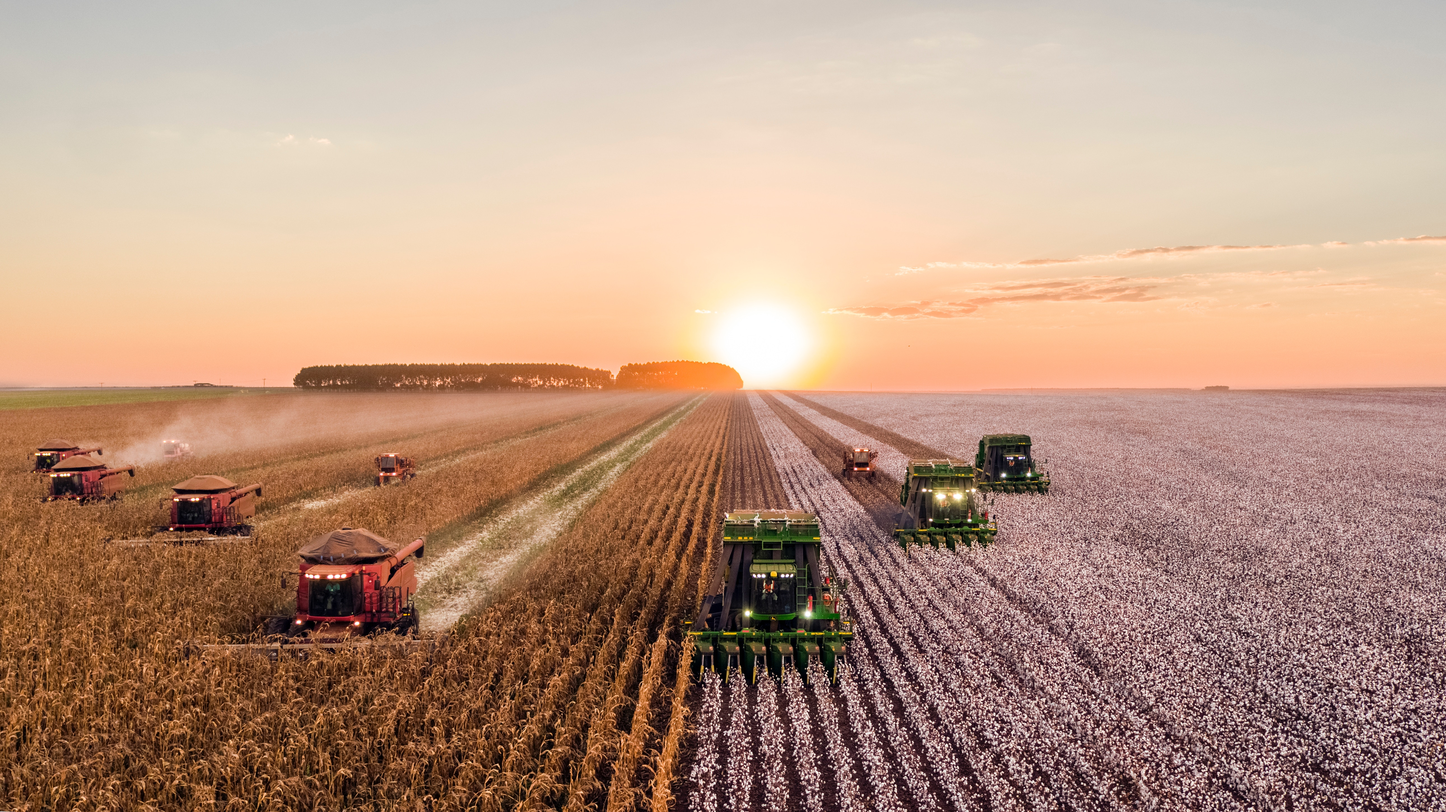
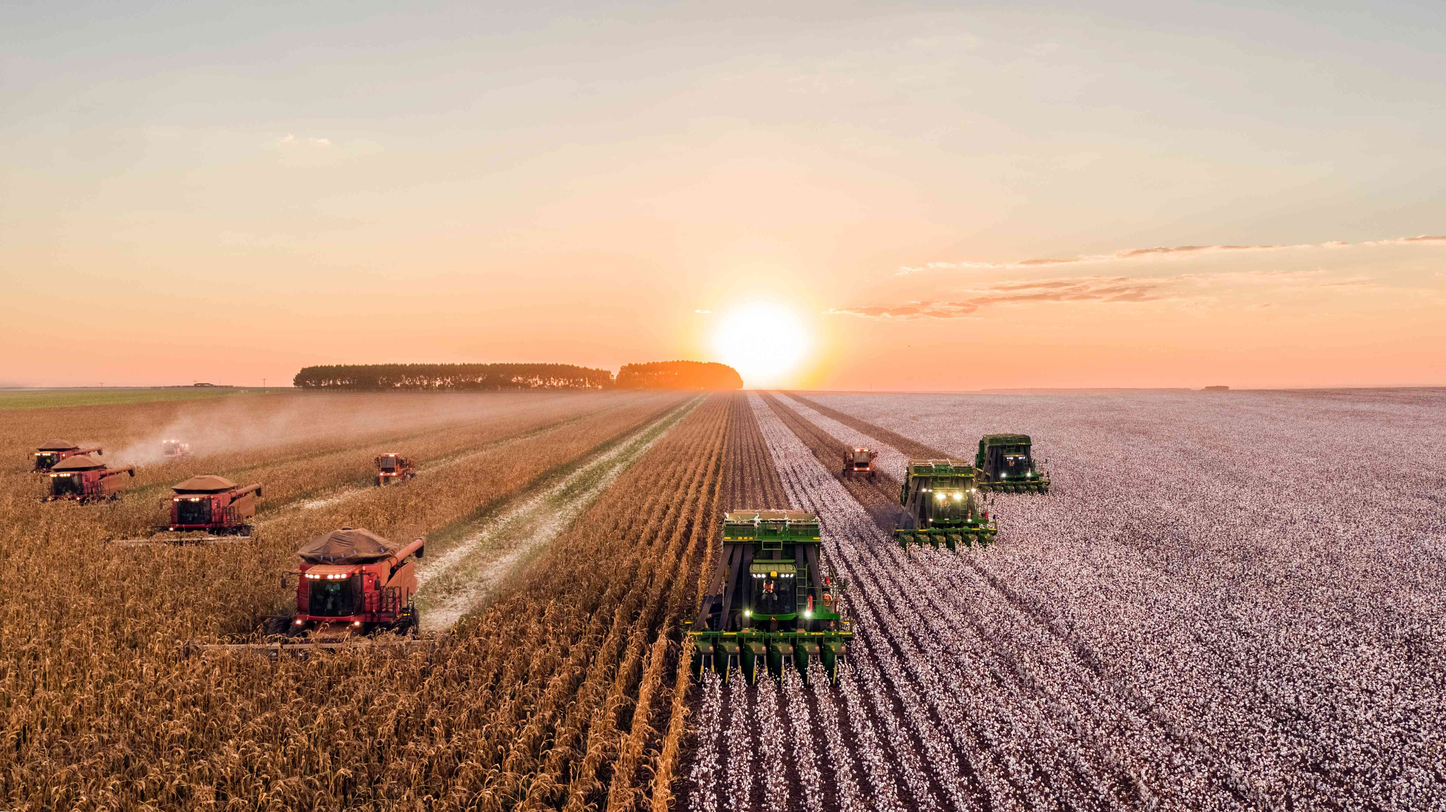
compressed image and added breadcrums and charts in page

diff --git a/frontend/src/app/logs/stats/stats.component.ts b/frontend/src/app/logs/stats/stats.component.ts
@@ -1,5 +1,6 @@
 import { Component, OnInit } from "@angular/core";
 import { Title } from "@angular/platform-browser";
+import { Chart } from "angular-highcharts";
 
 @Component({
   selector: "app-stats",
@@ -7,9 +8,28 @@ import { Title } from "@angular/platform-browser";
   styleUrls: ["./stats.component.scss"]
 })
 export class StatsComponent implements OnInit {
+  chart = new Chart({
+    chart: {
+      type: "line"
+    },
+    title: {
+      text: "OTPs verified"
+    },
+    credits: {
+      enabled: true
+    },
+    series: [
+      {
+        name: "Users in thousands",
+        data: [1, 2, 3]
+      }
+    ]
+  });
   constructor(private title: Title) {}
 
   ngOnInit() {
     this.title.setTitle(`Statistics`);
+    this.chart.addPoint(Math.floor(Math.random() * 10));
+    this.chart.addPoint(Math.floor(Math.random() * 10));
   }
 }

diff --git a/frontend/src/app/shared/components/header/header.component.ts b/frontend/src/app/shared/components/header/header.component.ts
@@ -1,15 +1,21 @@
-import { Component, OnInit } from '@angular/core';
+import { Component, OnInit } from "@angular/core";
+import { ActivatedRoute } from "@angular/router";
 
 @Component({
-  selector: 'app-header',
-  templateUrl: './header.component.html',
-  styleUrls: ['./header.component.scss']
+  selector: "app-header",
+  templateUrl: "./header.component.html",
+  styleUrls: ["./header.component.scss"]
 })
 export class HeaderComponent implements OnInit {
-
-  constructor() { }
+  urlStr;
+  constructor(private activatedRoute: ActivatedRoute) {}
 
   ngOnInit() {
+    this.urlStr = "";
+    const urls = this.activatedRoute.snapshot.pathFromRoot;
+    urls.forEach(url => {
+      if (url.url && url.url.length > 0)
+        this.urlStr = this.urlStr += "/" + url.url[0].path;
+    });
   }
-
 }

diff --git a/frontend/src/app/logs/logs.module.ts b/frontend/src/app/logs/logs.module.ts
@@ -1,5 +1,6 @@
 import { NgModule } from "@angular/core";
 import { CommonModule } from "@angular/common";
+import { ChartModule } from "angular-highcharts";
 
 import { LogsRoutingModule } from "./logs-routing.module";
 import { SharedModule } from "../shared/shared.module";
@@ -8,7 +9,7 @@ import { ViewMessageComponent } from "./view-message/view-message.component";
 import { StatsComponent } from "./stats/stats.component";
 
 @NgModule({
-  imports: [CommonModule, LogsRoutingModule, SharedModule],
+  imports: [CommonModule, LogsRoutingModule, SharedModule, ChartModule],
   declarations: [LogsComponent, ViewMessageComponent, StatsComponent]
 })
 export class LogsModule {}

diff --git a/frontend/src/app/logs/stats/stats.component.html b/frontend/src/app/logs/stats/stats.component.html
@@ -2,7 +2,13 @@
 <article class="container">
   <div class="row">
     <div class="col-sm-3"><app-aside></app-aside></div>
-    <div class="col-sm-9"><h1>Statistics</h1></div>
+    <div class="col-sm-9">
+      <header><h1>Statistics</h1></header>
+      <article>
+        <p>Currently this is fake data but we can put real data here</p>
+        <div [chart]="chart"></div>
+      </article>
+    </div>
   </div>
 </article>
 <app-footer></app-footer>

diff --git a/frontend/src/app/shared/components/header/header.component.html b/frontend/src/app/shared/components/header/header.component.html
@@ -10,4 +10,4 @@
     ></a>
   </div>
 </header>
-<div class="nav-crums">New part</div>
+<div class="nav-crums">{{ urlStr }}</div>
